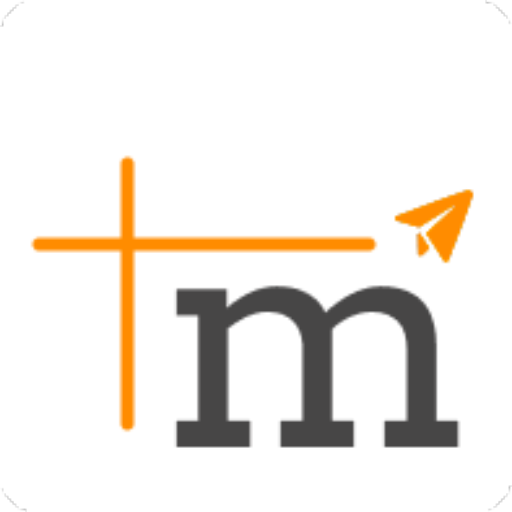
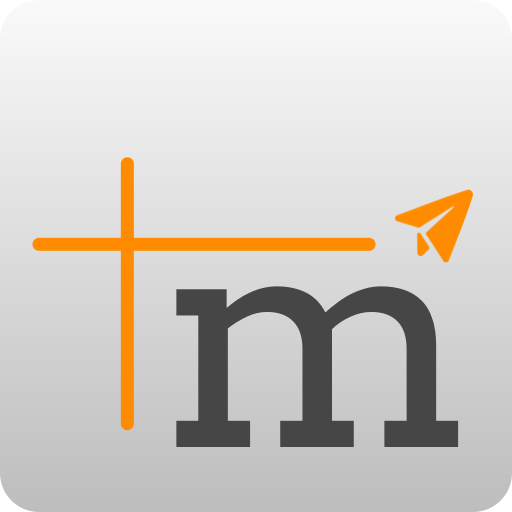
add support for process line notifications

diff --git a/client/src/renderer/src/services/test/DeviceService.test.ts b/client/src/renderer/src/services/test/DeviceService.test.ts
@@ -46,7 +46,7 @@ const mockCallState = callState as {
   groupCallState: unknown
 }
 
-const mockDeviceState = deviceState as {
+const mockDeviceState = deviceState as unknown as {
   selectedAudioDeviceId: string | undefined
   selectedVideoDeviceId: string | undefined
   setAudioInputs: ReturnType<typeof vi.fn>
@@ -77,15 +77,39 @@ function makeMockStream(
   } as unknown as MediaStream
 }
 
-function makeMockProducer() {
+type MockProducer = { replaceTrack: ReturnType<typeof vi.fn> }
+
+type MockGroupCallState = {
+  session:
+    | {
+        localStream: MediaStream
+        audioProducer: MockProducer | null
+        videoProducer: MockProducer | null
+      }
+    | null
+    | object
+  isAudioEnabled: boolean
+  isVideoEnabled: boolean
+}
+
+type MockP2PCallState = {
+  localStream: MediaStream | null
+  peerConnection: object | null
+  isAudioEnabled: boolean
+  isVideoEnabled: boolean
+}
+
+function makeMockProducer(): MockProducer {
   return { replaceTrack: vi.fn() }
 }
 
-function makeMockGroupCallState(overrides: {
-  session?: object | null
-  isAudioEnabled?: boolean
-  isVideoEnabled?: boolean
-} = {}) {
+function makeMockGroupCallState(
+  overrides: {
+    session?: object | null
+    isAudioEnabled?: boolean
+    isVideoEnabled?: boolean
+  } = {}
+): MockGroupCallState {
   const {
     session = {
       localStream: makeMockStream([makeMockTrack()]),
@@ -98,12 +122,14 @@ function makeMockGroupCallState(overrides: {
   return { session, isAudioEnabled, isVideoEnabled }
 }
 
-function makeMockP2PCallState(overrides: {
-  localStream?: MediaStream | null
-  peerConnection?: object | null
-  isAudioEnabled?: boolean
-  isVideoEnabled?: boolean
-} = {}) {
+function makeMockP2PCallState(
+  overrides: {
+    localStream?: MediaStream | null
+    peerConnection?: object | null
+    isAudioEnabled?: boolean
+    isVideoEnabled?: boolean
+  } = {}
+): MockP2PCallState {
   return {
     localStream: makeMockStream([makeMockTrack()]),
     peerConnection: null,
@@ -145,9 +171,7 @@ describe('DeviceService.switchAudioDevice', () => {
         session: { localStream, audioProducer, videoProducer: null }
       })
       const newTrack = makeMockTrack('mic-2')
-      mockMediaDevices.getUserMedia.mockResolvedValue(
-        makeMockStream([newTrack])
-      )
+      mockMediaDevices.getUserMedia.mockResolvedValue(makeMockStream([newTrack]))
 
       await deviceService.switchAudioDevice('mic-2')
 
@@ -161,15 +185,13 @@ describe('DeviceService.switchAudioDevice', () => {
       mockCallState.groupCallState = makeMockGroupCallState({
         session: { localStream, audioProducer: makeMockProducer(), videoProducer: null }
       })
-      mockMediaDevices.getUserMedia.mockResolvedValue(
-        makeMockStream([newTrack])
-      )
+      mockMediaDevices.getUserMedia.mockResolvedValue(makeMockStream([newTrack]))
 
       await deviceService.switchAudioDevice('mic-2')
 
-      expect((localStream.removeTrack as ReturnType<typeof vi.fn>)).toHaveBeenCalledWith(oldTrack)
-      expect((oldTrack.stop as ReturnType<typeof vi.fn>)).toHaveBeenCalled()
-      expect((localStream.addTrack as ReturnType<typeof vi.fn>)).toHaveBeenCalledWith(newTrack)
+      expect(localStream.removeTrack as ReturnType<typeof vi.fn>).toHaveBeenCalledWith(oldTrack)
+      expect(oldTrack.stop as ReturnType<typeof vi.fn>).toHaveBeenCalled()
+      expect(localStream.addTrack as ReturnType<typeof vi.fn>).toHaveBeenCalledWith(newTrack)
     })
 
     it('sets new track enabled to match group isAudioEnabled', async () => {
@@ -179,9 +201,7 @@ describe('DeviceService.switchAudioDevice', () => {
         session: { localStream, audioProducer: makeMockProducer(), videoProducer: null },
         isAudioEnabled: false
       })
-      mockMediaDevices.getUserMedia.mockResolvedValue(
-        makeMockStream([newTrack])
-      )
+      mockMediaDevices.getUserMedia.mockResolvedValue(makeMockStream([newTrack]))
 
       await deviceService.switchAudioDevice('mic-2')
 
@@ -228,9 +248,7 @@ describe('DeviceService.switchAudioDevice', () => {
           getTransceivers: vi.fn().mockReturnValue([{ sender: { replaceTrack } }])
         }
       })
-      mockMediaDevices.getUserMedia.mockResolvedValue(
-        makeMockStream([newTrack])
-      )
+      mockMediaDevices.getUserMedia.mockResolvedValue(makeMockStream([newTrack]))
 
       await deviceService.switchAudioDevice('mic-2')
 
@@ -266,9 +284,7 @@ describe('DeviceService.switchVideoDevice', () => {
         session: { localStream, audioProducer: null, videoProducer }
       })
       const newTrack = makeMockTrack('cam-2')
-      mockMediaDevices.getUserMedia.mockResolvedValue(
-        makeMockStream([], [newTrack])
-      )
+      mockMediaDevices.getUserMedia.mockResolvedValue(makeMockStream([], [newTrack]))
 
       await deviceService.switchVideoDevice('cam-2')
 
@@ -283,15 +299,13 @@ describe('DeviceService.switchVideoDevice', () => {
       mockCallState.groupCallState = makeMockGroupCallState({
         session: { localStream, audioProducer: null, videoProducer: makeMockProducer() }
       })
-      mockMediaDevices.getUserMedia.mockResolvedValue(
-        makeMockStream([], [newTrack])
-      )
+      mockMediaDevices.getUserMedia.mockResolvedValue(makeMockStream([], [newTrack]))
 
       await deviceService.switchVideoDevice('cam-2')
 
-      expect((localStream.removeTrack as ReturnType<typeof vi.fn>)).toHaveBeenCalledWith(oldTrack)
-      expect((oldTrack.stop as ReturnType<typeof vi.fn>)).toHaveBeenCalled()
-      expect((localStream.addTrack as ReturnType<typeof vi.fn>)).toHaveBeenCalledWith(newTrack)
+      expect(localStream.removeTrack as ReturnType<typeof vi.fn>).toHaveBeenCalledWith(oldTrack)
+      expect(oldTrack.stop as ReturnType<typeof vi.fn>).toHaveBeenCalled()
+      expect(localStream.addTrack as ReturnType<typeof vi.fn>).toHaveBeenCalledWith(newTrack)
     })
 
     it('skips replaceTrack when videoProducer is null', async () => {
@@ -327,9 +341,7 @@ describe('DeviceService.switchVideoDevice', () => {
           getTransceivers: vi.fn().mockReturnValue([{}, { sender: { replaceTrack } }])
         }
       })
-      mockMediaDevices.getUserMedia.mockResolvedValue(
-        makeMockStream([], [newTrack])
-      )
+      mockMediaDevices.getUserMedia.mockResolvedValue(makeMockStream([], [newTrack]))
 
       await deviceService.switchVideoDevice('cam-2')
 
@@ -423,7 +435,11 @@ describe('DeviceService.enumerateDevices (inferSelectedDevices)', () => {
     mockDeviceState.selectedAudioDeviceId = 'already-selected'
     const audioTrack = makeMockTrack('mic-1')
     mockCallState.groupCallState = {
-      session: { localStream: makeMockStream([audioTrack]), audioProducer: null, videoProducer: null }
+      session: {
+        localStream: makeMockStream([audioTrack]),
+        audioProducer: null,
+        videoProducer: null
+      }
     }
 
     await deviceService.enumerateDevices()

diff --git a/client/src/renderer/src/routes/home/+page.svelte b/client/src/renderer/src/routes/home/+page.svelte
@@ -39,6 +39,7 @@
   import { updateState } from '$src/states/UpdateState.svelte'
   import UpdateToast from '$src/components/common/messages/UpdateToast.svelte'
   import { isElectron } from '$src/utils/platformUtils'
+  import marginPng from '$src/assets/pics/margin.png'
 
   let incomingCallPayload = $state<CallOfferPayload | null>(null)
   const ringtone = new Audio(NotificationSounds.INCOMING_CALL)
@@ -59,6 +60,58 @@
       ringtone.currentTime = 0
     }
   })
+
+  $effect(() => {
+    if (!isElectron()) return
+    const total =
+      notificationState.getTotalUnreadDirectMessages() +
+      notificationState.getTotalUnreadChannelMessages()
+    console.log('[badge] effect fired, total:', total)
+    window.api!.setBadgeCount(total)
+    applyBadgeIcon(total)
+  })
+
+  async function applyBadgeIcon(count: number): Promise<void> {
+    console.log('[badge] applyBadgeIcon called, count:', count, 'marginPng:', marginPng)
+    const size = 128
+    const canvas = document.createElement('canvas')
+    canvas.width = size
+    canvas.height = size
+    const ctx = canvas.getContext('2d')!
+
+    await new Promise<void>((resolve) => {
+      const img = new Image()
+      img.onload = () => {
+        console.log('[badge] base icon loaded')
+        ctx.drawImage(img, 0, 0, size, size)
+        resolve()
+      }
+      img.onerror = (e) => {
+        console.log('[badge] base icon failed to load:', e)
+        resolve()
+      }
+      img.src = marginPng
+    })
+
+    if (count > 0) {
+      const r = 22
+      const x = size - r - 4
+      const y = r + 4
+      ctx.fillStyle = '#e83838'
+      ctx.beginPath()
+      ctx.arc(x, y, r, 0, Math.PI * 2)
+      ctx.fill()
+      ctx.fillStyle = 'white'
+      ctx.font = `bold ${count > 9 ? 18 : 22}px sans-serif`
+      ctx.textAlign = 'center'
+      ctx.textBaseline = 'middle'
+      ctx.fillText(count > 99 ? '99+' : String(count), x, y)
+    }
+
+    const dataUrl = count > 0 ? canvas.toDataURL('image/png') : null
+    console.log('[badge] sending setAppIcon, hasDataUrl:', dataUrl !== null)
+    window.api!.setAppIcon(dataUrl)
+  }
 
   useWebsocketSvelte({
     [WebSocketMessageType.RECEIVE_MESSAGE]: chatService.handleIncomingMessage,

diff --git a/client/src/main/index.ts b/client/src/main/index.ts
@@ -1,7 +1,8 @@
-import { app, BrowserWindow, desktopCapturer, ipcMain, safeStorage, session, shell } from 'electron'
+import { app, BrowserWindow, desktopCapturer, ipcMain, nativeImage, safeStorage, session, shell } from 'electron'
 import { join } from 'path'
 import { electronApp, is, optimizer } from '@electron-toolkit/utils'
 import icon from '../../resources/icon.png?asset'
+import notificationBadge from '../../resources/notification-badge.png?asset'
 import { API_CONFIG } from '../renderer/src/shared/config'
 import { existsSync, readFileSync, unlinkSync, writeFileSync } from 'fs'
 import pkg from 'electron-updater'
@@ -9,6 +10,33 @@ import pkg from 'electron-updater'
 const { autoUpdater } = pkg
 const SECURE_FILE = join(app.getPath('userData'), 'secure.bin')
 const TOKEN_FILE = join(app.getPath('userData'), 'session.bin')
+
+const badgeImage = nativeImage.createFromPath(notificationBadge)
+
+ipcMain.on('set-badge-count', (_event, count: number) => {
+  if (process.platform === 'darwin') {
+    app.dock?.setBadge(count > 0 ? String(count) : '')
+  } else if (process.platform === 'win32') {
+    const win = BrowserWindow.getAllWindows()[0]
+    if (!win) return
+    if (count > 0) {
+      win.setOverlayIcon(badgeImage, `${count} unread messages`)
+    } else {
+      win.setOverlayIcon(null, '')
+    }
+  }
+})
+
+ipcMain.on('set-app-icon', (_event, dataUrl: string | null) => {
+  console.log('[badge] set-app-icon received, hasDataUrl:', dataUrl !== null)
+  const win = BrowserWindow.getAllWindows()[0]
+  if (!win) return
+  if (dataUrl) {
+    win.setIcon(nativeImage.createFromDataURL(dataUrl))
+  } else {
+    win.setIcon(nativeImage.createFromPath(icon))
+  }
+})
 
 function writeEncrypted(filePath: string, plaintext: string): void {
   const encrypted = safeStorage.encryptString(plaintext)

diff --git a/client/src/preload/index.ts b/client/src/preload/index.ts
@@ -4,7 +4,9 @@ import { electronAPI } from '@electron-toolkit/preload'
 const api = {
   minimizeWindow: () => ipcRenderer.send('window-minimize'),
   maximizeWindow: () => ipcRenderer.send('window-maximize'),
-  closeWindow: () => ipcRenderer.send('window-close')
+  closeWindow: () => ipcRenderer.send('window-close'),
+  setBadgeCount: (count: number) => ipcRenderer.send('set-badge-count', count),
+  setAppIcon: (dataUrl: string | null) => ipcRenderer.send('set-app-icon', dataUrl)
 }
 
 // Use `contextBridge` APIs to expose Electron APIs to

diff --git a/client/src/preload/index.d.ts b/client/src/preload/index.d.ts
@@ -7,7 +7,9 @@ declare global {
       minimizeWindow: () => void
       maximizeWindow: () => void
       closeWindow: () => void
-      openExternal: (url: string) => Promise<void>;
+      openExternal: (url: string) => Promise<void>
+      setBadgeCount: (count: number) => void
+      setAppIcon: (dataUrl: string | null) => void
     }
   }
 }
